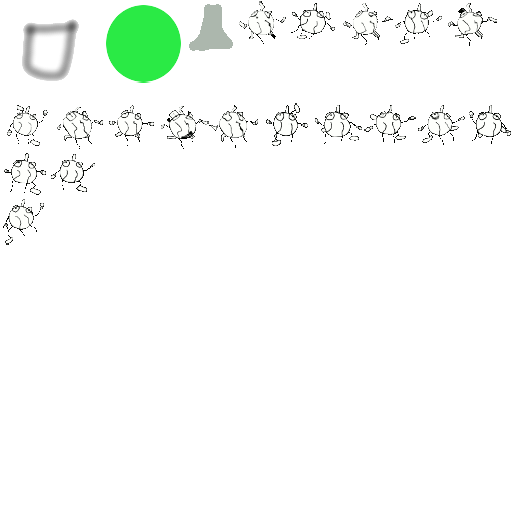
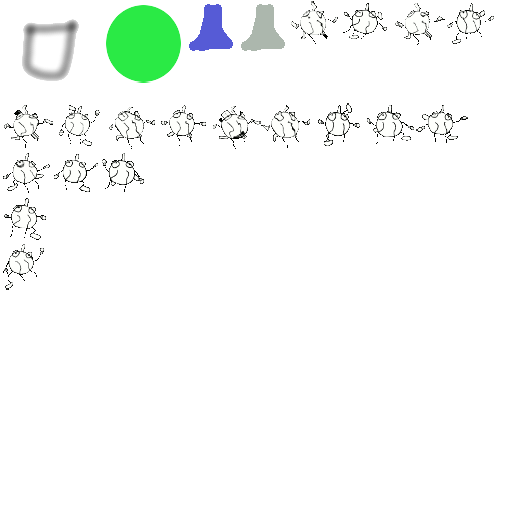
- a bit different repulsion things

Changed region(s): [[0.0, 0.1875, 1.0, 0.2812], [0.375, 0.0, 0.9688, 0.125], [0.0, 0.3125, 0.2812, 0.5625]]

diff --git a/fear.py b/fear.py
@@ -1,7 +1,9 @@
 # pylint: disable=no-member,unused-variable,unused-import
+from functools import partial
 from math import pi
 
 from kivy.base import EventLoop
+from kivy.clock import Clock
 from kivy.core.window import Keyboard, Window
 from kivy.factory import Factory
 from kivy.logger import Logger  # noqa: F401
@@ -49,7 +51,7 @@ class Fear(GameSystem):
         comp = self.components[cindex]
         comp.courage = 1.0
         comp.stone_contact = False
-        comp.rat_contact = False
+        comp.rat_contact = 0
 
     def on_key_up(self, _win, key, *_args, **_kwargs):
         code = Keyboard.keycode_to_string(Window._system_keyboard, key)
@@ -57,13 +59,7 @@ class Fear(GameSystem):
         if code != 'a':
             return
 
-        for c in self.components:
-            if c is None:
-                continue
-            if not c.shout:
-                continue
-
-            self.shout(c)
+        self.shout()
 
 
     def on_add_system(self):
@@ -107,16 +103,24 @@ class Fear(GameSystem):
     def rat_vs_rat_begin(self, _space, arbiter):
         c1, c2 = self.arbiter2components(arbiter, defs.coltype_rat, defs.coltype_rat)
 
-        c1.rat_contact = True
-        c2.rat_contact = True
+        c1.rat_contact += 1
+        c2.rat_contact += 1
+
+        Logger.debug("COL:%s vs %s, states=%s", c1.entity_id, c2.entity_id,
+                [int(x.rat_contact) for x in self.components if x and not x.nomove]
+                )
 
         return True
 
     def rat_vs_rat_end(self, _space, arbiter):
         c1, c2 = self.arbiter2components(arbiter, defs.coltype_rat, defs.coltype_rat)
 
-        c1.rat_contact = False
-        c2.rat_contact = False
+        c1.rat_contact -= 1
+        c2.rat_contact -= 1
+        Logger.debug("END:%s vs %s, states=%s", c1.entity_id, c2.entity_id,
+                [int(x.rat_contact) for x in self.components if x and not x.nomove]
+                )
+        return True
 
     def rat_vs_stone_begin(self, _space, arbiter):
         crat, _ign = self.arbiter2components(arbiter, 2, 3)
@@ -134,25 +138,21 @@ class Fear(GameSystem):
             return None
         return self.gameworld.entities[comp.entity_id]
 
-    def shout(self, c):
-        comps = [c for c in self.components if c and self.entity(c)]
-        entities = [self.entity(c) for c in comps]
-        poss = np.array([e.position.pos for e in entities])
-        courages = np.array([c.courage for c in comps])
-        
-        for c in comps:
-            if not c.shout:
+    def shout(self):
+
+        def _fn(c, _dt):
+            c.repulsion = None
+            c.attraction = c.orig_attraction
+
+        for c in self.components:
+            if c is None or not c.shout:
                 continue
+            if not c.repulsion:
+                c.repulsion = 0
+                c.orig_attraction = c.attraction
+                c.attraction = 0
             
-            e2 = self.entity(c)
-
-            vecs = poss - e2.position.pos
-            dist2s = np.sum(vecs**2, axis=1)
-
-            courages = np.where(dist2s < defs.shout_range**2, courages/2, courages)
-
-            for c2, courage in zip(comps, courages):
-                c2.courage = courage
+            c.repulsion += 2000
 
 
     def update(self, _dt):  # pylint: disable=too-many-locals
@@ -184,7 +184,11 @@ class Fear(GameSystem):
             if c2.repulsion:
                 vels += (vecs.T * c2.repulsion / dist2s / courages).T
 
-        dvels = (vels.T / np.linalg.norm(vels, axis=1)).T * defs.rat_speed
+        norms = np.linalg.norm(vels, axis=1)
+        Logger.debug("norms=%s", norms)
+        dvels = np.where(norms > defs.force_threshold, 
+                        vels.T / np.linalg.norm(vels, axis=1) * defs.rat_speed, 
+                        0).T
         _angles = np.arctan2(dvels[:, 1], dvels[:, 0]) + pi / 2
 
         for c, e, (velx, vely), _angle in zip(comps, entities, dvels, _angles):
@@ -194,17 +198,38 @@ class Fear(GameSystem):
             e.rotate.r = _angle
 
         self.update_courages()
+        # self.update_shouts()
 
     def update_courages(self):
         for c in self.components:
             if c is None:
                 continue
+            if c.nomove:
+                continue
             # courage things
+            e = self.entity(c)
             if c.rat_contact:
                 c.courage = min(defs.max_courage, c.courage * 1.02)
+                e.renderer.texture_key = 'rat-red'
                 # Logger.debug("CONTACT: increase courage to %s", c.courage)
             else:
                 c.courage *= 0.998
+                e.renderer.texture_key = 'rat'
+
+    def update_shouts(self):
+        for c in self.components:
+            if c is None or not c.shout:
+                continue
+            #Logger.debug("attraction=%s repulsion=%s", c.attraction, c.repulsion)
+            if c.repulsion is None:
+                continue
+
+            c.repulsion *= 0.95
+            
+            if c.repulsion < 1:
+                c.repulsion = None
+                c.attraction = c.orig_attraction
+                c.orig_attraction = None
 
 
 Factory.register('Fear', cls=Fear)

diff --git a/main.py b/main.py
@@ -109,7 +109,6 @@ class SneakGame(Widget):  # pylint: disable=too-many-instance-attributes
             self.person_anim = 'grace'
         else:
             speed = ent.cymunk_physics.body.speed
-            Logger.debug("speed = %s", speed)
             if  speed > 80:
                 self.person_anim = 'walk'
             else:
@@ -155,6 +154,8 @@ class SneakGame(Widget):  # pylint: disable=too-many-instance-attributes
         self.init_callbacks()
 
     def draw_person(self):
+        if self.person_anim == None:
+            self.person_anim = 'grace'
         self.person_eid = self.gameworld.init_entity(
                         *defedict({
                                 'renderer': {
@@ -175,7 +176,9 @@ class SneakGame(Widget):  # pylint: disable=too-many-instance-attributes
                                                            },
                                                            'friction': 1.0
                                                         }]},
-                                'fear': {'attraction': 1000, 'nomove': True, 'shout': True},
+                                  'fear': {'attraction': 1000, 
+                                           'repulsion': 1500,
+                                           'nomove': True, 'shout': True},
                                 'animation': {'name': self.person_anim, 'loop': True},
                              },
                              ['position', 'rotate', 'renderer', 'steering', 'fear',
@@ -186,7 +189,6 @@ class SneakGame(Widget):  # pylint: disable=too-many-instance-attributes
 
     def draw_stones(self):
         mapw, maph = defs.map_size  # self.gamemap.map_size # TODO
-        Logger.debug("mapw, maph = %s, %s", mapw, maph)
         # draw stones
         self.stones_in_game = self.num_stones
         for _x in range(self.num_stones):
@@ -219,7 +221,8 @@ class SneakGame(Widget):  # pylint: disable=too-many-instance-attributes
             self.gameworld.init_entity(
                         *defedict({
                             'renderer': {'texture': 'rat',
-                                         'size': (20, 20)},
+                                         'size': (20, 20),
+                                         'copy': True},
                             'fear': {},
                             'cymunk_physics': {'col_shapes': [{
                                                        'shape_type': 'circle',

diff --git a/defs.py b/defs.py
@@ -2,8 +2,8 @@ import math
 
 # level specific data
 map_size = (1000, 1000)
-num_stones = 4
-num_rats = 20
+num_stones = 1
+num_rats = 10
 
 
 # characters
@@ -14,7 +14,7 @@ max_courage = 4.0
 # gameplay things
 freeze_time = 3
 grace_time = 2
-numrats_change = 2, 1.5  # on advance level, add, multipiler
+numrats_change = 10, 1.1  # on advance level, add, multipiler
 numstones_change = 1, 1  # on advance level
 mapsize_change = 200, 1  # on advance level
 lives_add = 2
@@ -26,10 +26,11 @@ coltype_person = 1
 coltype_rat = 2
 coltype_stone = 3
 
+force_threshold = 3
+
 # steering
 steering_min_dist = 50
 angle_step = math.radians(6)
 
 # misc
 inf = 1.0e10  # potential in place/tile of attraction/repulsion
-calc_move_gradient_threshold = 0.5
